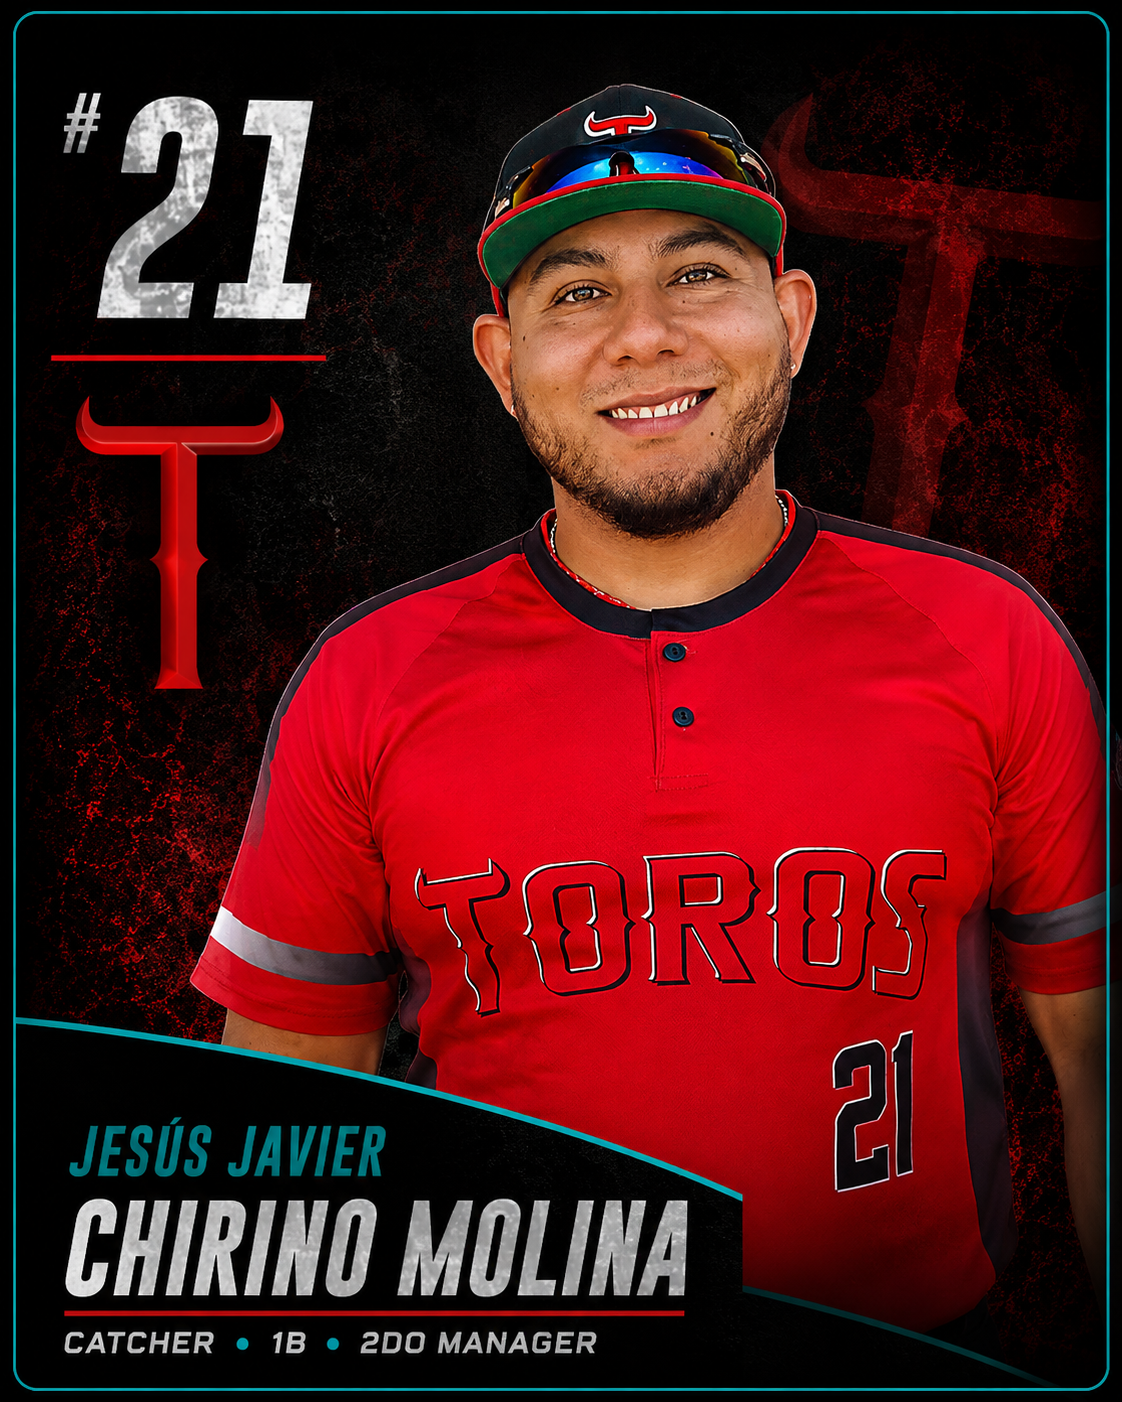
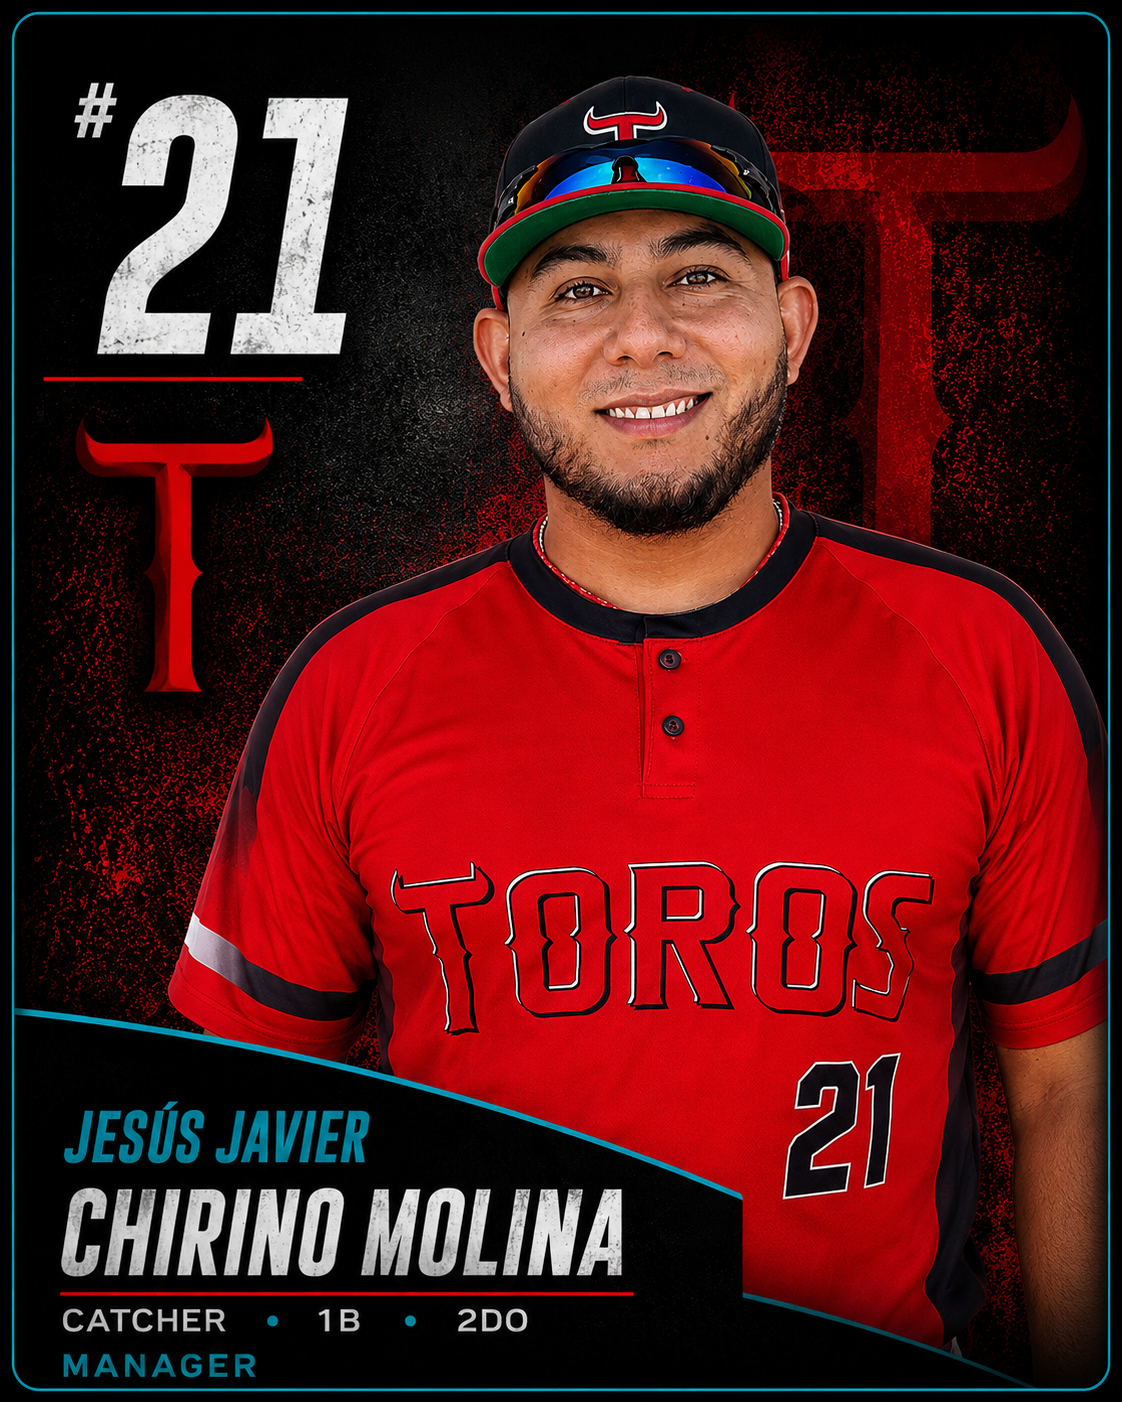
Completa plantilla de jugadores Toros 2026

diff --git a/components/sections/Team.tsx b/components/sections/Team.tsx
@@ -1,31 +1,77 @@
-import Link from "next/link";
-import FadeIn from "@/components/animations/FadeIn";
 import PlayerCard from "@/components/ui/PlayerCard";
 
 const players = [
   {
-    name: "Nombre Jugador",
-    number: 1,
-    position: "Pitcher",
+    name: "Carlos Eduardo Vásquez Falcón",
+    number: 5,
+    position: "SS · Capitán · Manager",
     image: "/images/team/player-01.jpg",
   },
   {
-    name: "Nombre Jugador",
-    number: 7,
-    position: "Catcher",
+    name: "Jesús Javier Chirino Molina",
+    number: 21,
+    position: "Catcher · 1B · 2do Manager",
     image: "/images/team/player-02.jpg",
   },
   {
-    name: "Nombre Jugador",
-    number: 12,
+    name: "Marving Gregory Rodríguez Peña",
+    number: 99,
     position: "Infielder",
     image: "/images/team/player-03.jpg",
   },
   {
-    name: "Nombre Jugador",
-    number: 23,
-    position: "Outfielder",
+    name: "Eduardo José Hernández Pacheco",
+    number: 10,
+    position: "Outfielder · 1B",
     image: "/images/team/player-04.jpg",
+  },
+  {
+    name: "Deivis Javier Garabán Vargas",
+    number: 24,
+    position: "Outfielder · Catcher",
+    image: "/images/team/player-05.jpg",
+  },
+  {
+    name: "Argenis José Briceño Victoria",
+    number: 4,
+    position: "Pitcher · 2B",
+    image: "/images/team/player-06.jpg",
+  },
+  {
+    name: "Jaime Jesús Peña Peña",
+    number: 29,
+    position: "Pitcher · 2B",
+    image: "/images/team/player-07.jpg",
+  },
+  {
+    name: "José Luís Colmenares Vivas",
+    number: 57,
+    position: "Pitcher · 2B",
+    image: "/images/team/player-08.jpg",
+  },
+  {
+    name: "Juan Carlos Marrero Serrano",
+    number: 18,
+    position: "1B · RF",
+    image: "/images/team/player-09.jpg",
+  },
+  {
+    name: "Marco Aurelio Miccichè",
+    number: 6,
+    position: "1B",
+    image: "/images/team/player-10.jpg",
+  },
+  {
+    name: "Braian Anderson Bautista Zurita",
+    number: 11,
+    position: "3B · Outfielder",
+    image: "/images/team/player-11.jpg",
+  },
+  {
+    name: "Spencer Jesús Hernández Sandoval",
+    number: 7,
+    position: "Outfielder",
+    image: "/images/team/player-12.jpg",
   },
 ];
 
@@ -33,109 +79,38 @@ export default function Team() {
   return (
     <section
       id="equipo"
-      className="relative overflow-hidden bg-[#0b0f10] py-24 sm:py-28"
+      className="bg-[#020708] py-24 text-white sm:py-28 lg:py-32"
     >
-      {/* Brillos decorativos */}
-      <div
-        aria-hidden="true"
-        className="pointer-events-none absolute -left-40 top-20 h-96 w-96 rounded-full bg-[#30CED8]/5 blur-3xl"
-      />
-
-      <div
-        aria-hidden="true"
-        className="pointer-events-none absolute -right-40 bottom-20 h-96 w-96 rounded-full bg-[#30CED8]/5 blur-3xl"
-      />
-
       <div className="mx-auto max-w-7xl px-6 lg:px-8">
 
         {/* CABECERA */}
-        <FadeIn>
-          <div className="flex flex-col gap-6 sm:flex-row sm:items-end sm:justify-between">
+        <div className="max-w-3xl">
+          <p className="text-sm font-black uppercase tracking-[0.35em] text-[#30CED8]">
+            El equipo
+          </p>
 
-            <div>
-              <p className="text-sm font-bold uppercase tracking-[0.4em] text-[#30CED8]">
-                EL EQUIPO
-              </p>
+          <h2 className="mt-4 text-4xl font-black uppercase tracking-tight sm:text-5xl lg:text-6xl">
+            Nuestra familia
+          </h2>
 
-              <h2 className="mt-3 text-4xl font-black tracking-tight text-white sm:text-5xl lg:text-6xl">
-                Nuestra familia
-              </h2>
-
-              <p className="mt-5 max-w-2xl text-lg leading-8 text-gray-400">
-                Más que un equipo. Personas unidas por la amistad,
-                la competición y la pasión por el softball.
-              </p>
-            </div>
-
-            <Link
-              href="#historia"
-              className="group inline-flex shrink-0 items-center text-sm font-black uppercase tracking-[0.15em] text-[#30CED8]"
-            >
-              Nuestra historia
-              <span className="ml-2 transition group-hover:ml-3">
-                →
-              </span>
-            </Link>
-
-          </div>
-        </FadeIn>
-
-        {/* LÍNEA DECORATIVA */}
-        <FadeIn>
-          <div className="my-12 h-px bg-gradient-to-r from-[#30CED8]/60 via-white/10 to-transparent" />
-        </FadeIn>
+          <p className="mt-6 text-lg leading-8 text-white/60 sm:text-xl">
+            Los Toros somos mucho más que un equipo. Somos una familia
+            unida por el softbol, dentro y fuera del campo.
+          </p>
+        </div>
 
         {/* PLANTILLA */}
-        <FadeIn>
-          <div className="grid gap-6 sm:grid-cols-2 lg:grid-cols-4">
-
-            {players.map((player) => (
-              <PlayerCard
-                key={player.number}
-                name={player.name}
-                number={player.number}
-                position={player.position}
-                image={player.image}
-              />
-            ))}
-
-          </div>
-        </FadeIn>
-
-        {/* BOTÓN PLANTILLA COMPLETA */}
-        <FadeIn>
-          <div className="mt-14 flex justify-center">
-
-            <Link
-              href="#plantilla"
-              className="
-                inline-flex
-                min-h-14
-                items-center
-                justify-center
-                rounded-full
-                border-2
-                border-[#30CED8]
-                px-8
-                text-sm
-                font-black
-                uppercase
-                tracking-[0.12em]
-                text-[#30CED8]
-                transition
-                duration-300
-                hover:bg-[#30CED8]
-                hover:text-black
-              "
-            >
-              Ver plantilla completa
-              <span className="ml-3">
-                →
-              </span>
-            </Link>
-
-          </div>
-        </FadeIn>
+        <div className="mt-14 grid gap-6 sm:grid-cols-2 lg:grid-cols-4">
+          {players.map((player) => (
+            <PlayerCard
+              key={player.number}
+              name={player.name}
+              number={player.number}
+              position={player.position}
+              image={player.image}
+            />
+          ))}
+        </div>
 
       </div>
     </section>
